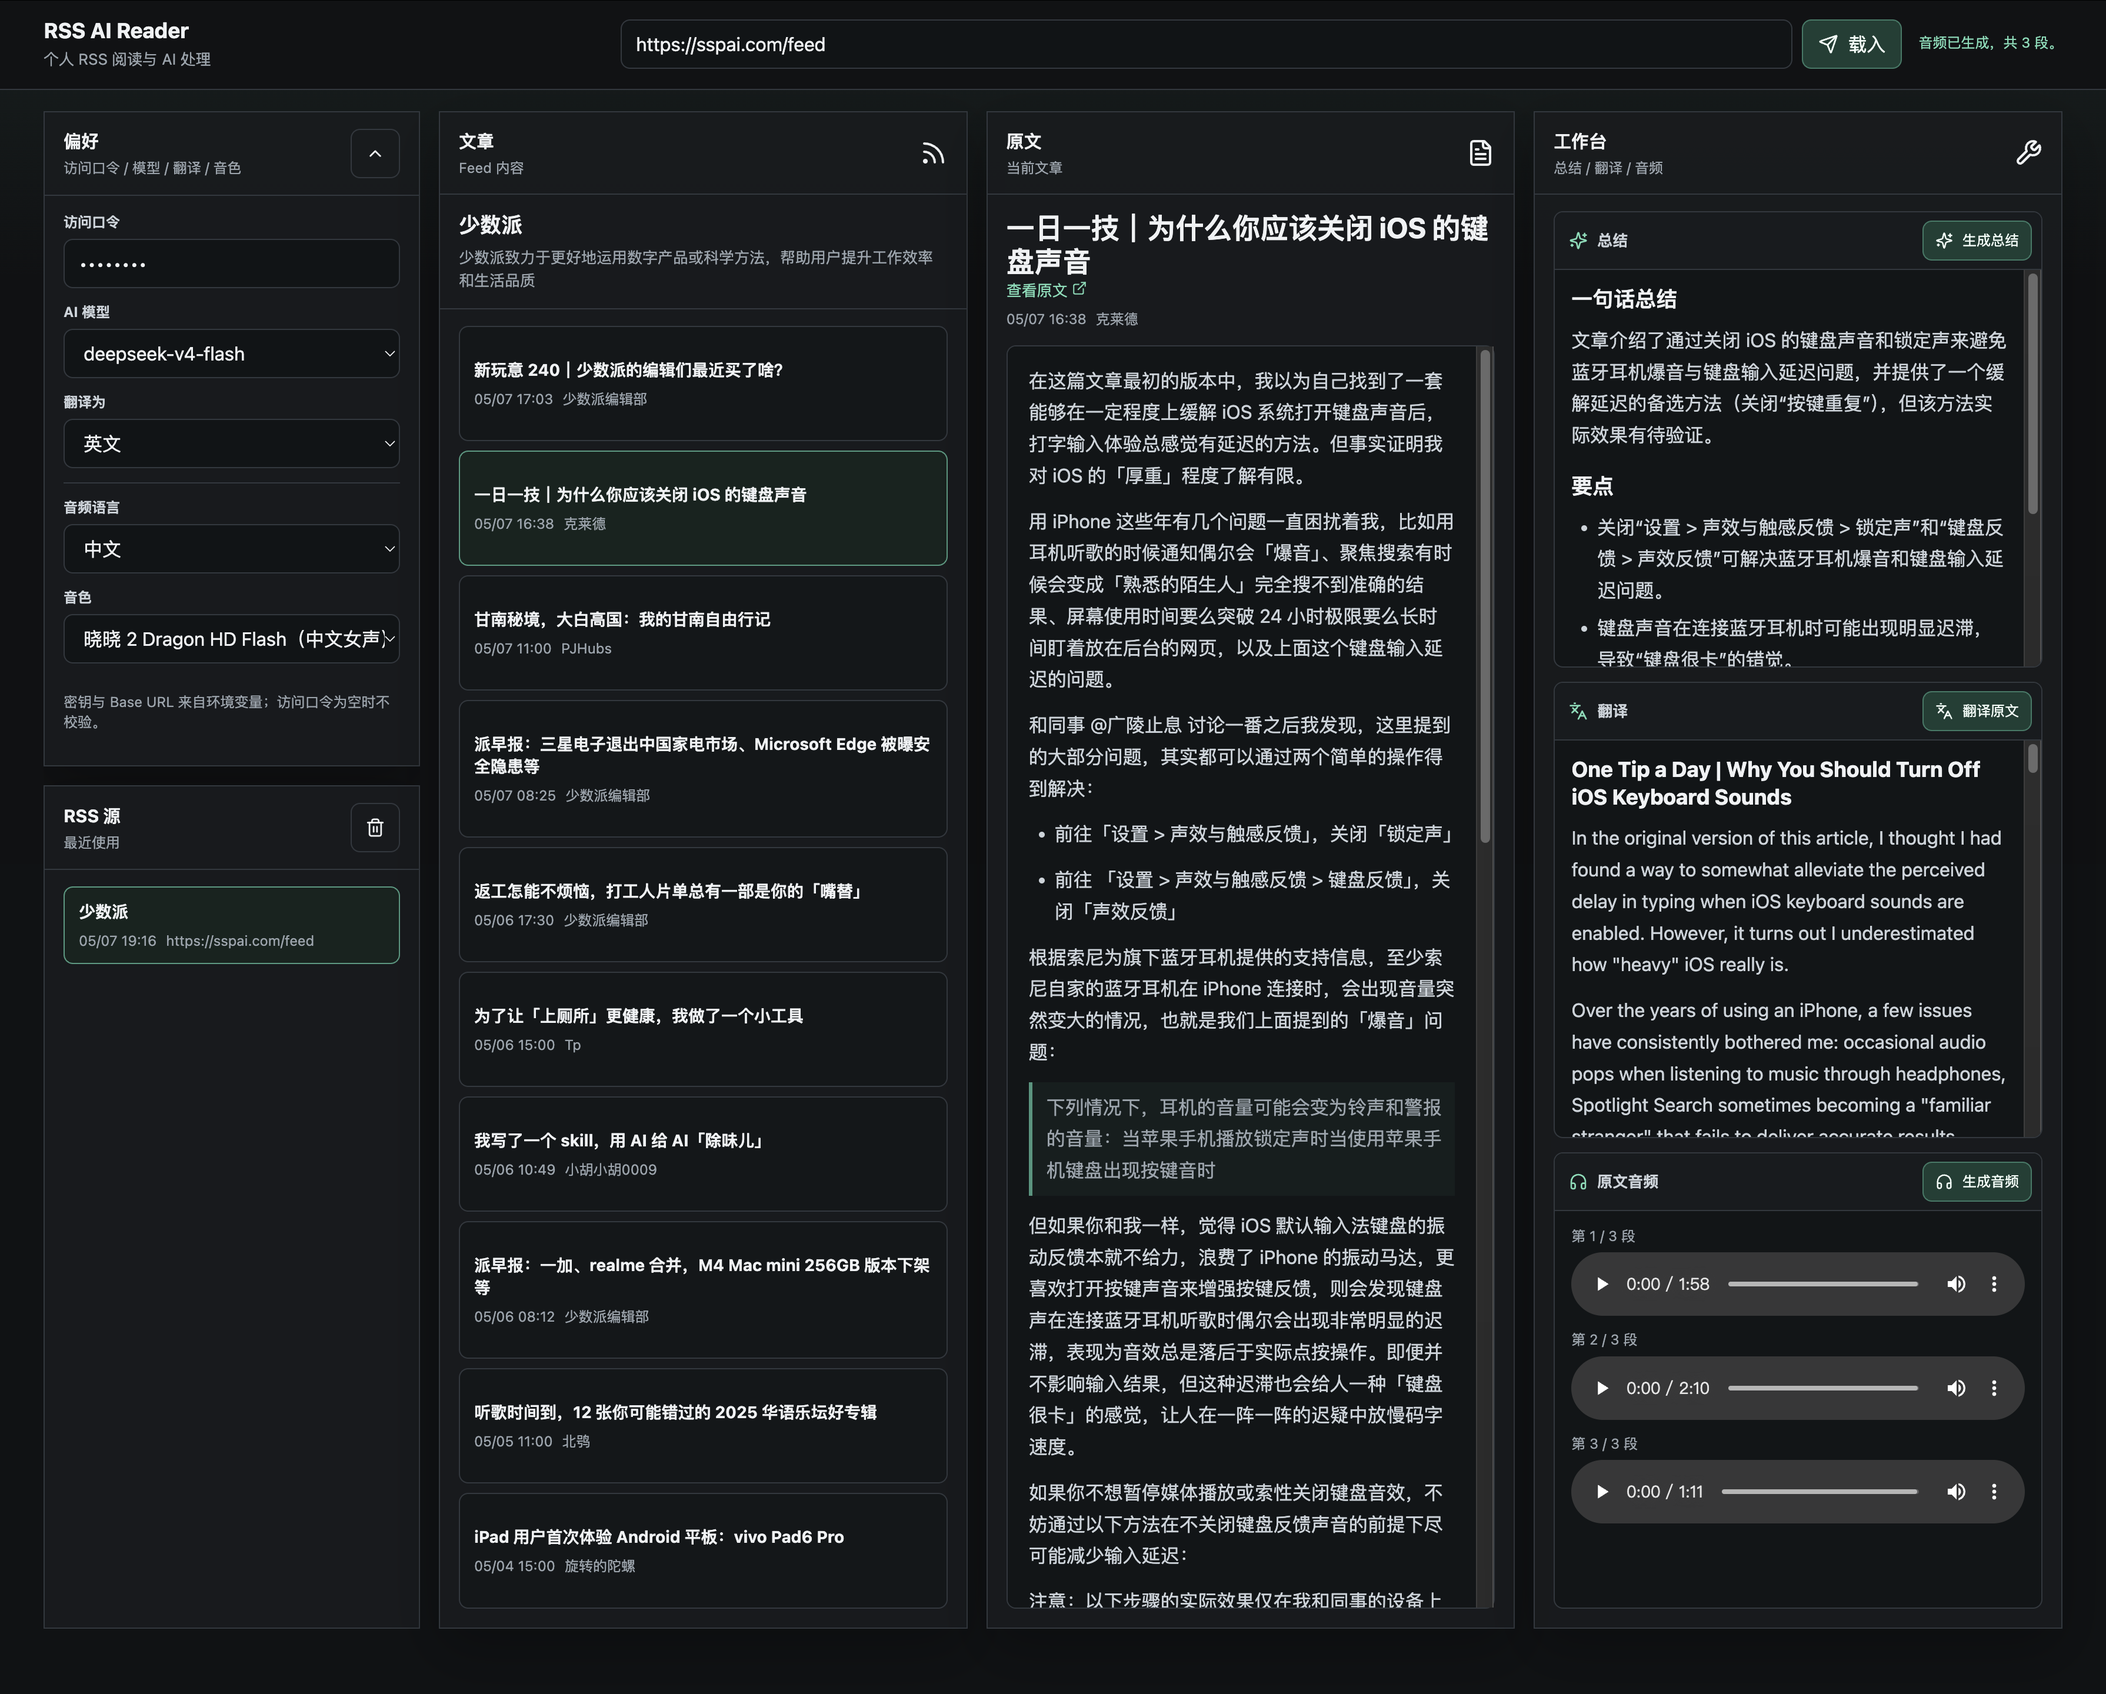
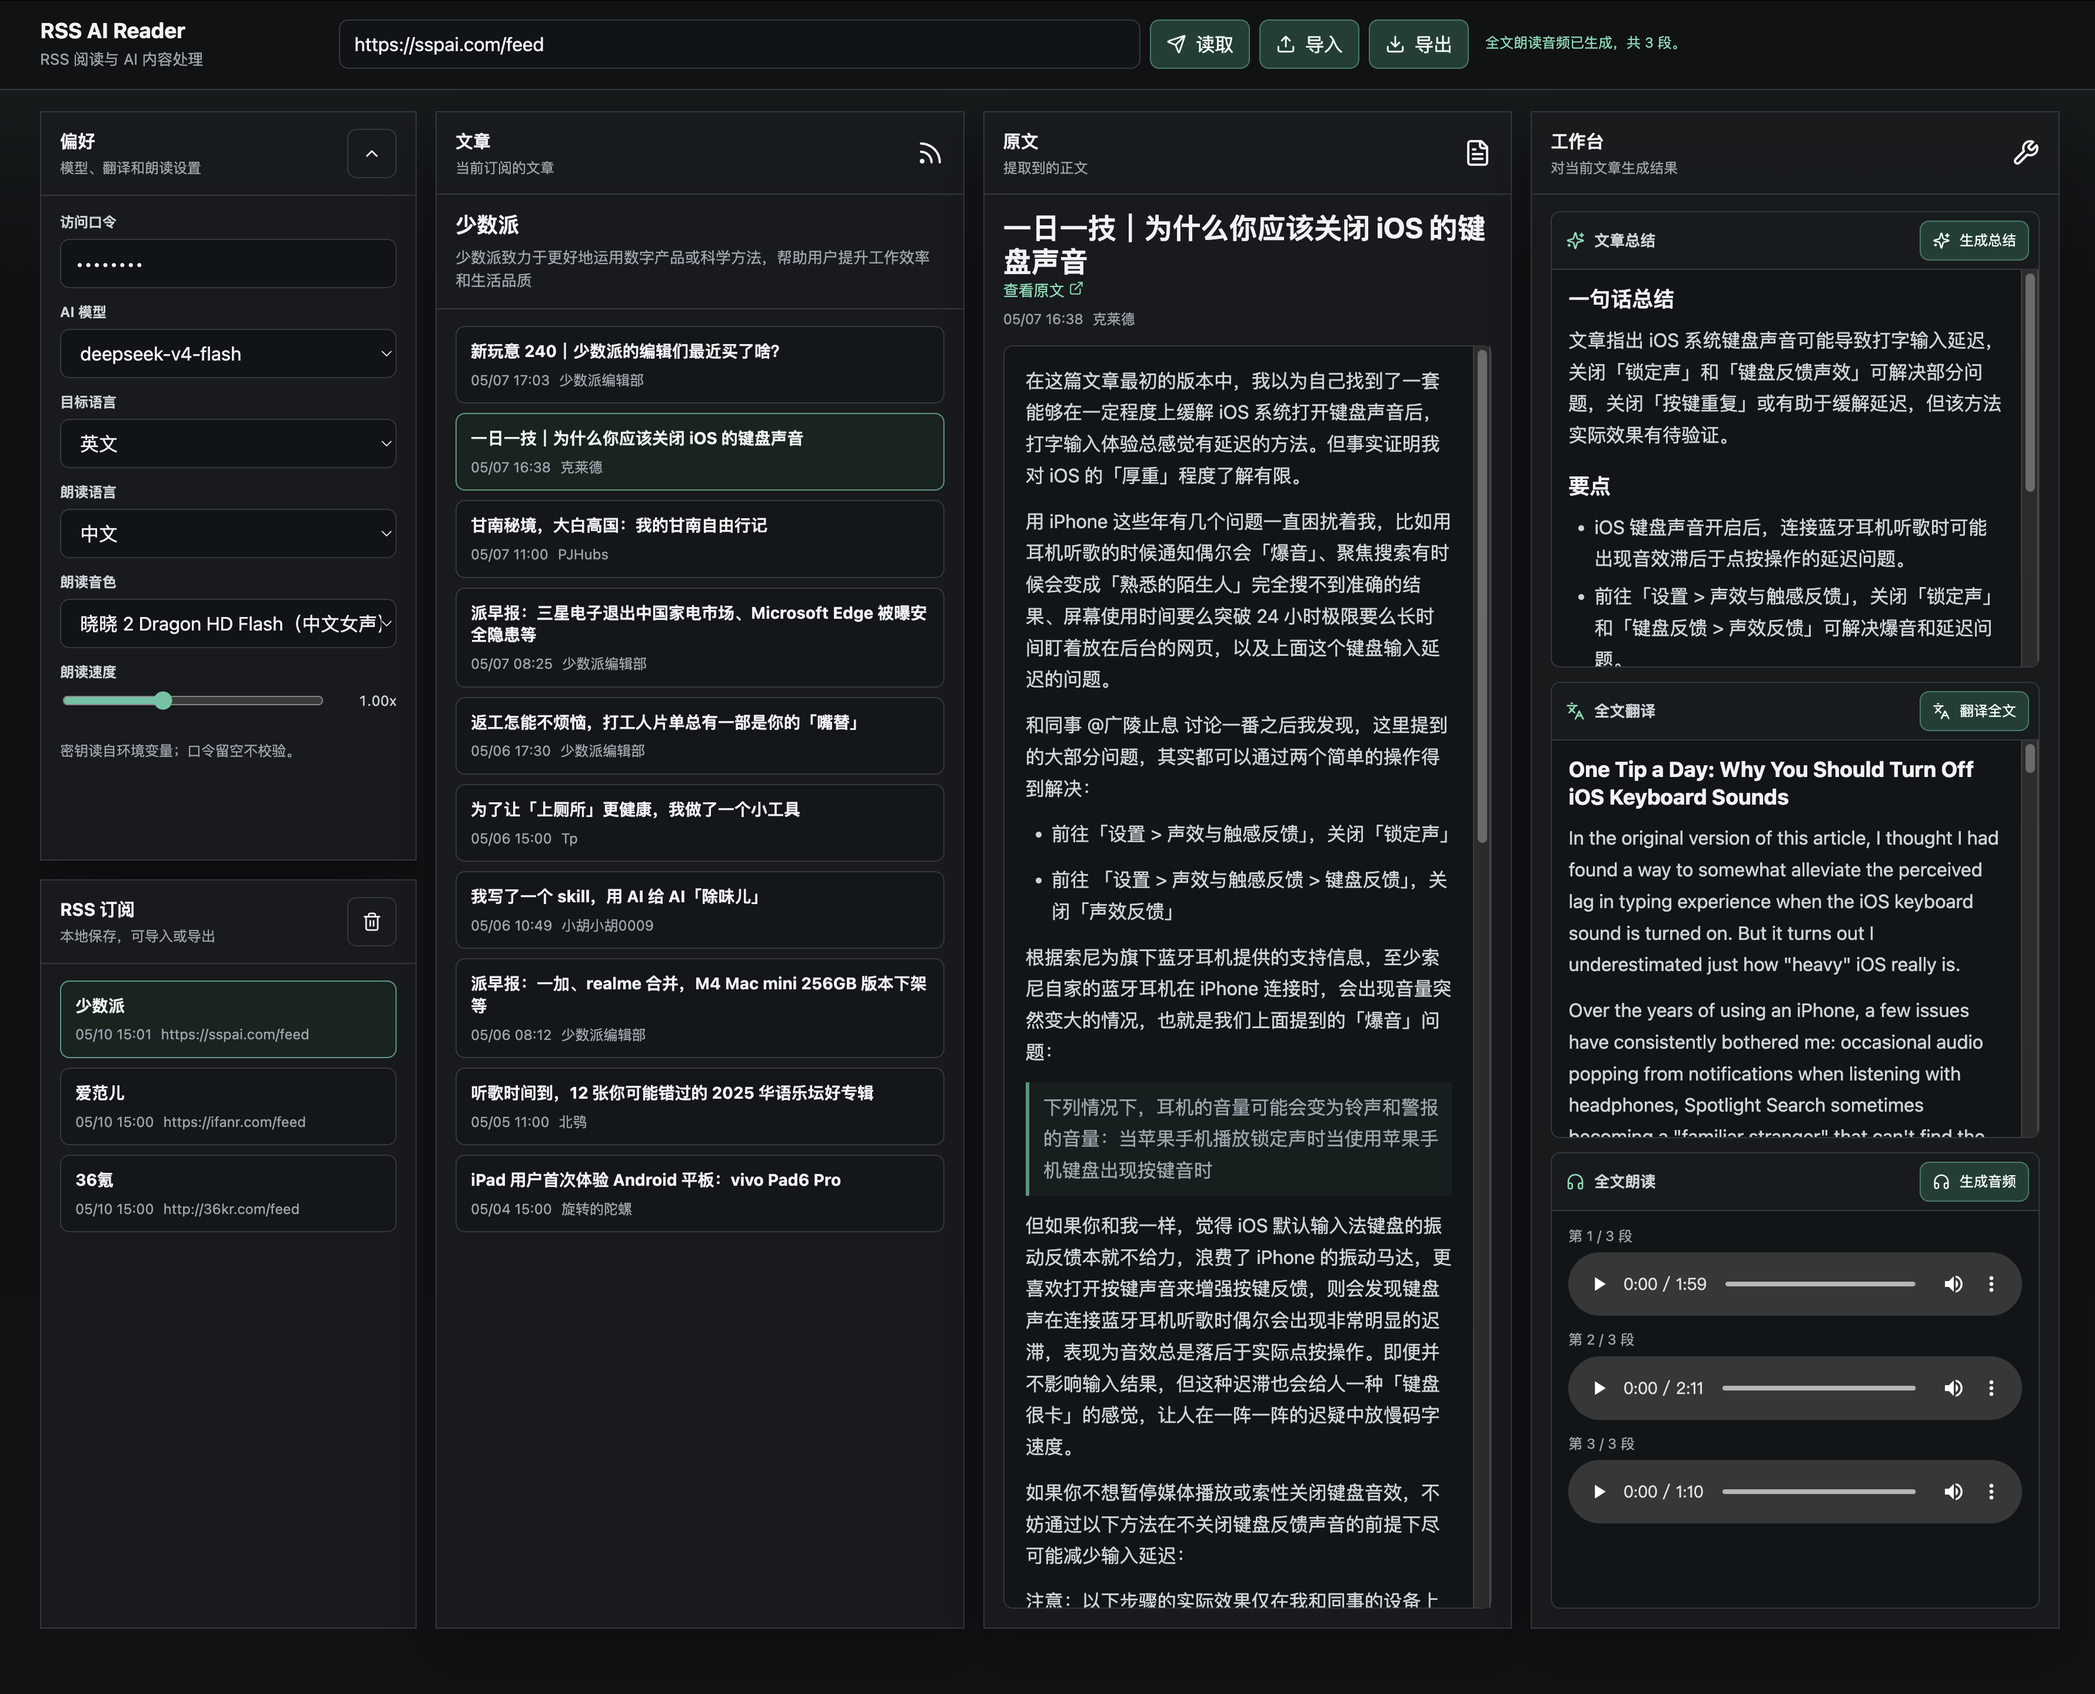
Refine responsive layout alignment

diff --git a/app/globals.css b/app/globals.css
@@ -322,6 +322,11 @@ a {
   gap: 12px;
 }
 
+.settings-panel .panel-body.stack {
+  align-content: start;
+  grid-auto-rows: max-content;
+}
+
 .setting-row {
   display: grid;
   gap: 6px;
@@ -361,7 +366,9 @@ a {
 .source-list,
 .article-list {
   display: grid;
+  align-content: start;
   gap: 8px;
+  grid-auto-rows: max-content;
 }
 
 .source-list {
@@ -753,6 +760,7 @@ a {
   }
 
   .main-grid {
+    --viewport-panel-height: calc(100vh - 250px);
     grid-template-columns: var(--side-column-width) minmax(0, 1fr);
     grid-template-areas: "navigation workspace";
     align-items: stretch;
@@ -760,51 +768,46 @@ a {
 
   .navigation-stack {
     grid-area: navigation;
-    display: flex;
-    flex-direction: column;
-    grid-template-rows: auto auto;
+    display: grid;
+    grid-template-areas: none;
+    grid-template-rows: repeat(3, minmax(0, 1fr));
     gap: 16px;
     align-self: stretch;
     min-height: 0;
-    overflow: visible;
-  }
-
-  .side-stack {
-    grid-template-rows: auto minmax(0, 1fr);
-    height: var(--viewport-panel-height);
-    align-content: stretch;
-    overflow: visible;
-  }
-
-  .navigation-stack.settings-open .side-stack {
-    grid-template-rows: auto auto;
-    height: auto;
-    align-content: start;
-  }
-
-  .navigation-stack.settings-closed .side-stack > .panel:not(.settings-panel) {
-    min-height: 0;
-  }
-
-  .navigation-stack.settings-closed .side-stack .source-list {
-    flex: 1;
-    min-height: 0;
-    max-height: none;
-    overflow: auto;
-  }
-
-  .settings-panel.expanded,
-  .original-panel {
-    height: var(--viewport-panel-height);
-  }
-
-  .settings-panel.expanded {
+    height: calc(var(--viewport-panel-height) + var(--viewport-panel-height) + 16px);
     overflow: hidden;
   }
 
-  .settings-panel.expanded .panel-body {
+  .navigation-stack.settings-closed {
+    grid-template-rows: auto repeat(2, minmax(0, 1fr));
+  }
+
+  .side-stack {
+    display: contents;
+  }
+
+  .original-panel,
+  .workbench-panel {
+    height: var(--viewport-panel-height);
+  }
+
+  .side-stack > .panel,
+  .navigation-stack > .feed-panel {
+    min-height: 0;
+    overflow: hidden;
+  }
+
+  .navigation-stack > .feed-panel {
+    grid-area: auto;
+  }
+
+  .side-stack > .panel > .panel-body {
     flex: 1;
     overflow: auto;
+  }
+
+  .side-stack .source-list {
+    max-height: none;
   }
 
   .workspace-stack {
@@ -820,80 +823,10 @@ a {
     min-height: 0;
   }
 
-  .workbench-panel .panel-body {
-    flex: 1;
-  }
-
-  .feed-panel .article-list-wrap {
-    flex: 1 1 0;
-    min-height: 0;
-    max-height: none;
-    overflow: auto;
-  }
-
-  .navigation-stack > .feed-panel {
-    flex: 1 1 auto;
-  }
-}
-
-@media (min-width: 1220px) {
-  .topbar-inner {
-    grid-template-columns: minmax(160px, 240px) clamp(720px, 58vw, 960px) minmax(0, 1fr);
-  }
-
-  .main-grid {
-    min-height: var(--viewport-panel-height);
-    grid-template-columns: var(--side-column-width) repeat(2, minmax(0, 1fr));
-    grid-template-areas: "navigation original workbench";
-    align-items: start;
-  }
-
-  .navigation-stack {
-    grid-area: navigation;
-    display: grid;
-    grid-template-areas:
-      "side"
-      "feed";
-    grid-template-rows: auto auto;
-    gap: 16px;
-    min-width: 0;
-    min-height: 0;
-    overflow: visible;
-  }
-
-  .navigation-stack > .feed-panel {
-    min-height: 420px;
-  }
-
-  .workspace-stack {
-    display: contents;
-  }
-
-  .original-panel,
-  .workbench-panel {
-    height: var(--viewport-panel-height);
-  }
-
   .original-panel .panel-body,
   .workbench-panel .panel-body {
     flex: 1;
     overflow: hidden;
-  }
-
-  .feed-panel > .empty {
-    flex: 1;
-    min-height: 0;
-  }
-
-  .empty-panel-body {
-    display: flex;
-    padding: 0;
-  }
-
-  .empty-panel-body > .empty {
-    flex: 1;
-    width: 100%;
-    min-height: 0;
   }
 
   .original-panel .article-detail {
@@ -919,6 +852,63 @@ a {
     min-height: 0;
     max-height: none;
   }
+
+  .feed-panel .article-list-wrap {
+    flex: 1 1 0;
+    min-height: 0;
+    max-height: none;
+    overflow: auto;
+  }
+}
+
+@media (min-width: 1220px) {
+  .topbar-inner {
+    grid-template-columns: minmax(160px, 240px) clamp(720px, 58vw, 960px) minmax(0, 1fr);
+  }
+
+  .main-grid {
+    --viewport-panel-height: calc(100vh - 150px);
+    min-height: var(--viewport-panel-height);
+    grid-template-columns: var(--side-column-width) repeat(2, minmax(0, 1fr));
+    grid-template-areas: "navigation original workbench";
+    align-items: start;
+  }
+
+  .navigation-stack {
+    grid-area: navigation;
+    display: grid;
+    grid-template-areas: none;
+    grid-template-rows: repeat(3, minmax(0, 1fr));
+    gap: 16px;
+    min-width: 0;
+    min-height: 0;
+    height: var(--viewport-panel-height);
+    overflow: hidden;
+  }
+
+  .navigation-stack.settings-closed {
+    grid-template-rows: auto repeat(2, minmax(0, 1fr));
+  }
+
+  .workspace-stack {
+    display: contents;
+  }
+
+  .feed-panel > .empty {
+    flex: 1;
+    min-height: 0;
+  }
+
+  .empty-panel-body {
+    display: flex;
+    padding: 0;
+  }
+
+  .empty-panel-body > .empty {
+    flex: 1;
+    width: 100%;
+    min-height: 0;
+  }
 }
 
 @media (min-width: 1480px) {
@@ -932,31 +922,21 @@ a {
   }
 
   .side-stack {
-    overflow: visible;
-  }
-
-  .side-stack > .panel:not(.settings-panel) {
-    min-height: 280px;
-  }
-
-  .side-stack .source-list {
-    max-height: min(28vh, 300px);
-    overflow: auto;
-  }
-
-  .navigation-stack.settings-closed .side-stack .source-list {
-    flex: 1;
-    min-height: 0;
-    max-height: none;
-  }
-
-  .feed-panel {
+    grid-area: side;
+    display: grid;
+    grid-template-rows: repeat(2, minmax(0, 1fr));
+    gap: 16px;
     height: var(--viewport-panel-height);
+    overflow: hidden;
   }
 
-  .feed-panel .article-list-wrap {
-    flex: 1;
-    max-height: none;
+  .navigation-stack.settings-closed .side-stack {
+    grid-template-rows: auto minmax(0, 1fr);
+  }
+
+  .navigation-stack > .feed-panel {
+    grid-area: feed;
+    height: var(--viewport-panel-height);
   }
 }
 

diff --git a/docs/visual-requirements.md b/docs/visual-requirements.md
@@ -56,15 +56,18 @@
 ## 高度与对齐
 
 - 多列模式下，`原文` 是主要高度基准，尽量撑满可视高度，但高度略短于整屏，避免视觉过满。
+- 多列模式下，`工作台` 模块高度必须始终与 `原文` 模块一致。
 - 多列模式下，同一行的大模块顶部应对齐；需要跨行排列的模块，应通过底部对齐保持整体秩序。
 - 单列模式下不强制跨模块底部对齐，按自然纵向顺序排列即可。
-- 2、3、4 列模式下，`偏好` 展开时，`偏好` 下边缘必须与 `原文` 下边缘对齐。
-- 2、3、4 列模式下，`偏好` 折叠时，`RSS 订阅` 下边缘必须与 `原文` 下边缘对齐。
-- 2 列模式下，`工作台` 下边缘必须与 `文章` 下边缘对齐。
+- 多列模式下，最左列底部必须与右侧最底部模块底部对齐。
+- 多列模式下，最左列里的可见内容模块应平分列高。
+- `偏好` 折叠时，`偏好` 只保留折叠后的自然高度；最左列剩余模块平分剩余高度。
+- 2 列模式下，最左列底部必须对齐 `工作台` 底部，而不是只对齐 `原文` 底部。
+- 2 列模式下，`原文` 和 `工作台` 在右列上下排列，两者高度一致。
 - 2 列模式下，`RSS 订阅` 和 `文章` 之间不能出现明显空白，也不能互相挤压。
-- 3 列模式下，`原文` 和 `工作台` 高度一致；`文章` 模块应比普通列表更长，避免第一列下半区域显得空。
+- 3 列模式下，`原文` 和 `工作台` 高度一致；第一列底部对齐二者底部。
 - 4 列模式下，`文章`、`原文`、`工作台` 高度一致，三列顶部和底部都应对齐。
-- 4 列模式下，第一列固定宽度，`文章`、`原文`、`工作台` 三列等宽。
+- 4 列模式下，第一列固定宽度，`文章`、`原文`、`工作台` 三列等宽；第一列底部也应与这些模块底部对齐。
 - 模块内容较少时保持整齐对齐；内容较多时优先保证模块边界稳定，再通过内部滚动承载内容。
 
 ### 对齐状态矩阵
@@ -72,25 +75,25 @@
 | 页面状态 | 对齐要求 |
 | --- | --- |
 | 单列 | 所有模块自然纵向排列，不要求底部对齐；模块间距保持一致。 |
-| 2 列，偏好展开 | `偏好` 底部对齐 `原文` 底部；`文章` 底部对齐 `工作台` 底部；页面可整体滚动。 |
-| 2 列，偏好折叠 | `RSS 订阅` 底部对齐 `原文` 底部；`文章` 底部对齐 `工作台` 底部；`RSS 订阅` 与 `文章` 之间无明显空白。 |
-| 3 列，偏好展开 | `偏好`、`原文`、`工作台` 底部对齐；`文章` 位于第一列下方，高度应足够展示更多条目。 |
-| 3 列，偏好折叠 | `RSS 订阅`、`原文`、`工作台` 底部对齐；`文章` 位于第一列下方，高度应足够展示更多条目。 |
-| 4 列，偏好展开 | `偏好`、`文章`、`原文`、`工作台` 顶部区域保持整齐；`偏好` 底部对齐 `原文` 底部；`文章`、`原文`、`工作台` 高度一致。 |
-| 4 列，偏好折叠 | `RSS 订阅` 底部对齐 `原文` 底部；`文章`、`原文`、`工作台` 高度一致。 |
+| 2 列，偏好展开 | 第一列包含 `偏好`、`RSS 订阅`、`文章`，三者平分第一列高度；第一列底部对齐右列 `工作台` 底部；`原文` 与 `工作台` 高度一致。 |
+| 2 列，偏好折叠 | `偏好` 保持折叠高度；`RSS 订阅` 与 `文章` 平分第一列剩余高度；第一列底部对齐右列 `工作台` 底部；`原文` 与 `工作台` 高度一致。 |
+| 3 列，偏好展开 | 第一列包含 `偏好`、`RSS 订阅`、`文章`，三者平分第一列高度；第一列底部与 `原文`、`工作台` 底部对齐。 |
+| 3 列，偏好折叠 | `偏好` 保持折叠高度；`RSS 订阅` 与 `文章` 平分第一列剩余高度；第一列底部与 `原文`、`工作台` 底部对齐。 |
+| 4 列，偏好展开 | 第一列包含 `偏好`、`RSS 订阅`，二者平分第一列高度；第一列、`文章`、`原文`、`工作台` 底部对齐。 |
+| 4 列，偏好折叠 | `偏好` 保持折叠高度；`RSS 订阅` 填满第一列剩余高度；第一列、`文章`、`原文`、`工作台` 底部对齐。 |
 | 4 列空状态 | `读取 RSS 后显示文章`、`选择一篇文章查看正文`、`选择一篇文章后开始处理` 三个提示的视觉中心线必须一致。 |
-| RSS 源很多 | `RSS 订阅` 列表内部滚动；不撑破第一列，不影响 `偏好` 与 `原文` 的底部对齐。 |
+| RSS 源很多 | `RSS 订阅` 列表内部滚动；不撑破第一列，不影响最左列与右侧模块的底部对齐。 |
 | 文章很多 | `文章` 列表内部滚动；外层模块高度不被列表撑高。 |
 | 正文很长 | `原文` 正文区域内部滚动；`原文` 模块高度不变。 |
 | 总结、翻译结果很长 | 对应结果窗口内部滚动；`工作台` 模块高度不变。 |
-| 窗口高度较低 | 允许页面整体滚动；必要时允许 `偏好` 内容区内部滚动，但不能破坏底部对齐。 |
+| 窗口高度较低 | 允许页面整体滚动；必要时允许 `偏好` 内容区内部滚动，但不能破坏最左列模块平分和底部对齐。 |
 
 ## 滚动行为
 
 - 页面可以整体滚动，尤其是在窗口高度较小时。
 - 不应让第一列出现“偏好”和“RSS 订阅”共用的内部滚动条；这种情况应交给整页滚动或具体列表滚动处理。
 - `偏好` 展开时，在常规桌面高度下尽量不要出现内部滚动。
-- 如果窗口高度不足，`偏好` 可以在内容区内部滚动，但仍需保持模块底部与 `原文` 对齐。
+- 如果窗口高度不足，`偏好` 可以在内容区内部滚动，但仍需保持最左列的高度分配和底部对齐。
 - RSS 源数量很多时，`RSS 订阅` 列表内部滚动，不能撑破模块。
 - 文章很多时，`文章` 列表内部滚动，不能撑破模块。
 - `原文` 正文区域内部滚动，保持标题和外部模块稳定。
@@ -137,6 +140,8 @@
 
 - 单列、2 列、3 列、4 列布局是否合理。
 - 4 列桌面宽度下是否没有横向溢出。
-- 多列模式下 `偏好` 与 `原文` 的底部对齐是否保持。
+- 多列模式下最左列模块是否按展开或折叠状态正确分配高度。
+- 多列模式下最左列底部是否对齐右侧最底部模块。
+- 2 列模式下 `原文` 与 `工作台` 是否同高，且第一列底部是否对齐 `工作台` 底部。
 - 空状态、长标题、长链接、大量 RSS 源、大量文章时模块是否整齐。
 - 构建命令 `next build` 是否通过。
